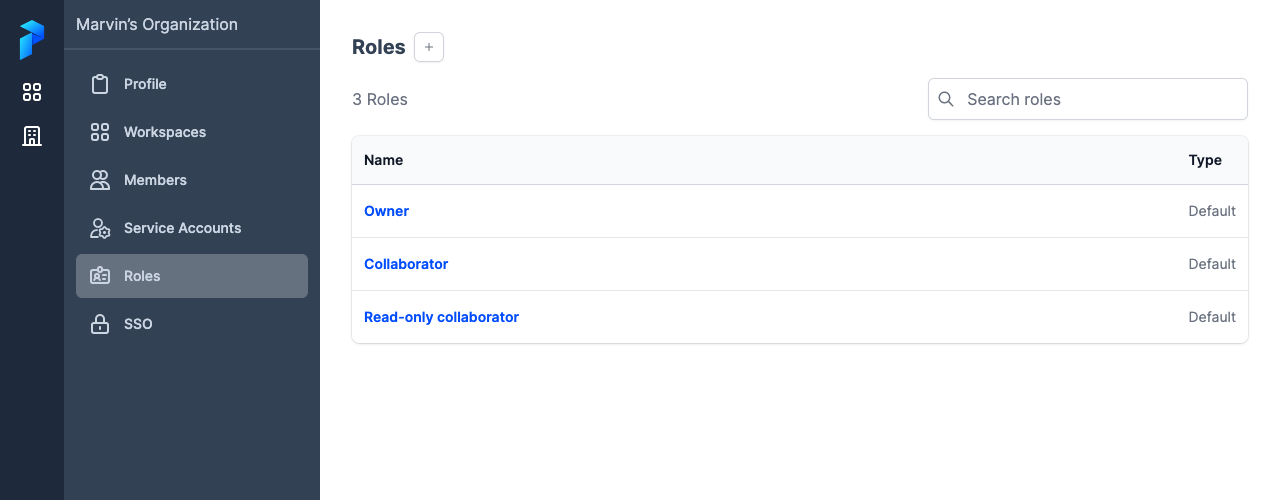
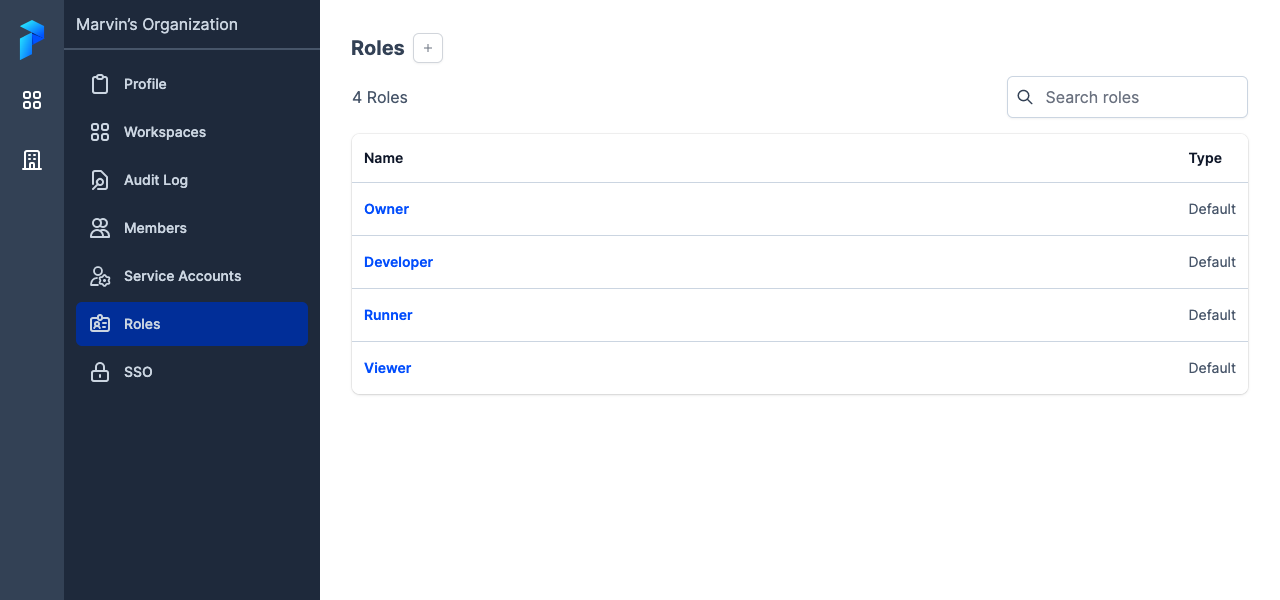
update roles and permissions

diff --git a/docs/ui/roles.md b/docs/ui/roles.md
@@ -46,9 +46,10 @@ The following built-in roles have permissions within a given workspace in Prefec
 
 | Role | Abilities |
 | --- | --- |
-| Owner | &bull; Run flows. <br> &bull; View and delete flow runs within a workspace. <br> &bull; Create, view, edit, and delete deployments within a workspace. <br> &bull; Create, view, edit, and delete work queues within a workspace. <br> &bull; Create, view, edit, and delete blocks within a workspace. <br> &bull; Create, view, edit, and delete notifications within a workspace. <br> &bull; Add and remove organization members, and set their role within a workspace. <br> &bull; Set the workspace’s default workspace role for all users in the organization. <br> &bull; Set, view, edit workspace settings. |
-| Collaborator | &bull; Run flows within a workspace. <br> &bull; View and delete flow runs within a workspace. <br> &bull; Create, view, edit, and delete deployments within a workspace. <br> &bull; Create, view, edit, and delete work queues within a workspace. <br> &bull; Create, view, edit, and delete all blocks within a workspace. <br> &bull; Create, view, edit, and delete notifications within a workspace. <br> &bull; View workspace setting within a workspace. |
-| Read-only collaborator | &bull; View flow runs within a workspace. <br> &bull; View deployments within a workspace. <br> &bull; View all Work Queues. <br> &bull; View all Blocks. <br> &bull; View all Notifications. <br> &bull; View workspace settings (handle & description currently). |
+| Owner | &bull; Run flows. <br> &bull; View and delete flow runs within a workspace. <br> &bull; Create, view, edit, and delete deployments within a workspace. <br> &bull; Create, view, edit, and delete work queues within a workspace. <br> &bull; Create, view, edit, and delete blocks within a workspace. <br> &bull; Create, view, edit, and delete automations within a workspace. <br> &bull; Add and remove organization members, and set their role within a workspace. <br> &bull; Set the workspace’s default workspace role for all users in the organization. <br> &bull; Set, view, edit workspace settings. |
+| Developer | &bull; Run flows within a workspace. <br> &bull; View and delete flow runs within a workspace. <br> &bull; Create, view, edit, and delete deployments within a workspace. <br> &bull; Create, view, edit, and delete work queues within a workspace. <br> &bull; Create, view, edit, and delete all blocks within a workspace. <br> &bull; Create, view, edit, and delete automations within a workspace. <br> &bull; View workspace setting within a workspace. |
+| Runner | &bull; View flow runs within a workspace. <br> &bull; View and run deployments within a workspace. <br> &bull; View all work queues within a workspace. <br> &bull; View all blocks within a workspace. <br> &bull; View all automations within a workspace. <br> &bull; View workspace settings (handle and description currently). |
+| Viewer | &bull; View flow runs within a workspace. <br> &bull; View deployments within a workspace. <br> &bull; View all work queues within a workspace. <br> &bull; View all blocks within a workspace. <br> &bull; View all automations within a workspace. <br> &bull; View workspace settings (handle and description currently). |
 
 ## Custom workspace roles
 
@@ -75,6 +76,13 @@ To configure an inherited role when configuring a custom role, select the **Inhe
 ## Workspace role permissions
 
 The following permissions are available for custom roles.
+
+### Automations
+
+| Permission | Description |
+| --- | --- |
+| View automations | User can see configured automations within a workspace. |
+| Create, edit, and delete automations | User can create, edit, and delete automations within a workspace. Includes permissions of **View automations**. |
 
 ### Blocks
 
